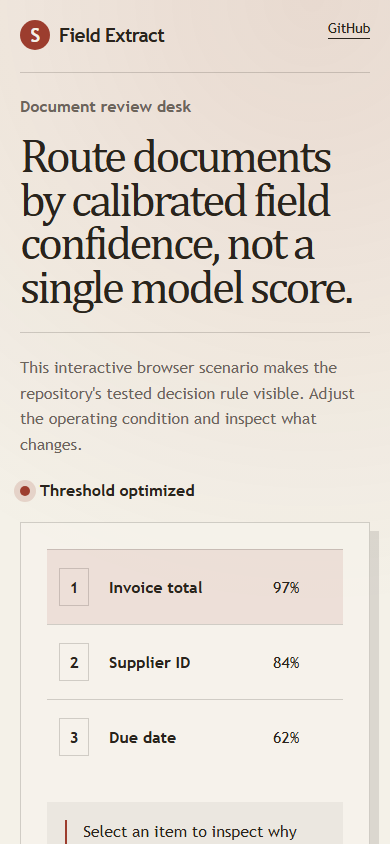
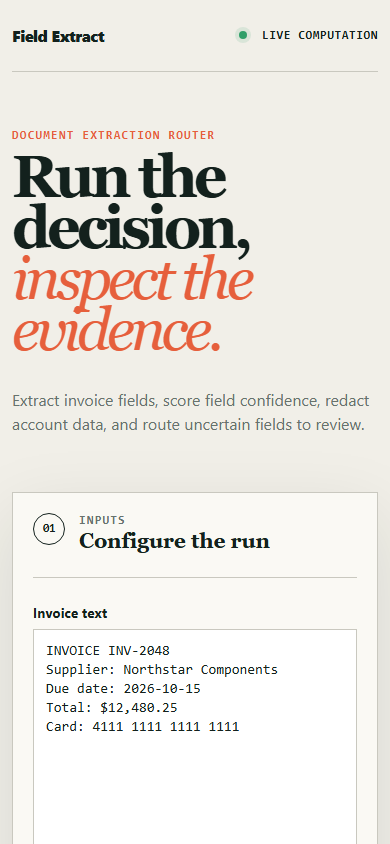
docs: show working deployed application

diff --git a/README.md b/README.md
@@ -6,9 +6,9 @@
 
 [![CI and deployment](https://github.com/SlateGitOrg/fieldextract/actions/workflows/ci.yml/badge.svg?branch=main)](https://github.com/SlateGitOrg/fieldextract/actions/workflows/ci.yml)
 
-[Open the interactive Field Extract demo](https://slategitorg.github.io/fieldextract/)
+[Open the working Field Extract application](https://slategitorg.github.io/fieldextract/)
 
-The deployed interface uses a deterministic offline scenario to make the repository's tested decision rule visible without external services or private data.
+This deployed application runs the project's decision workflow in the browser. Change the inputs, run the analysis, and inspect the computed metrics and decision trace.
 
 ### Desktop
 
